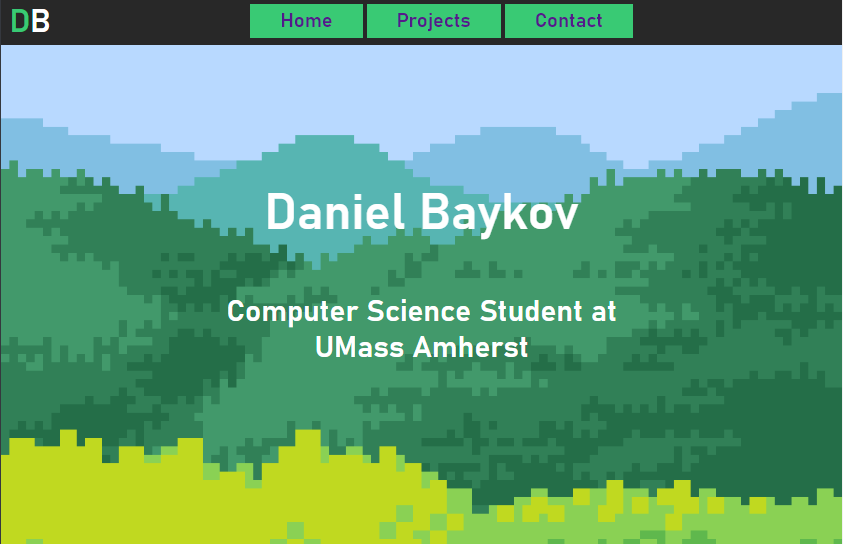
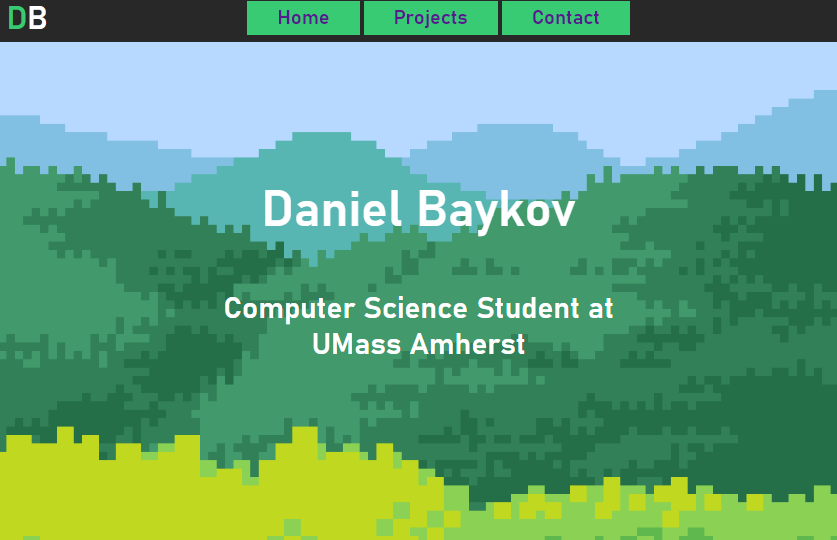
Added css and project

diff --git a/index.html b/index.html
@@ -1,55 +1,65 @@
 <!doctype html>
 <html lang="en">
-	<head>
-		<meta charset="utf-8">
-		<title>Daniel Baykov</title>
-		<link rel="stylesheet" href="stylesheet.css" type="text/css">
-		<link rel="shortcut icon" type="image/png" href="photos/favicon.PNG">
-	</head>
+<head>
+	<meta charset="utf-8">
+	<title>Daniel Baykov</title>
+	<link rel="stylesheet" href="stylesheet.css" type="text/css">
+	<link rel="shortcut icon" type="image/png" href="photos/favicon.PNG">
+</head>
+<header>
+	<em><h1>D<span>B</span></h1></em>
+</header>
+<body>
+<div class = "image-container">
+	<div class = "inner-container">
+		<h3>Daniel Baykov</h3>
+		<h4>Computer Science Student at UMass Amherst</h4>
+	</div>
+
+</div>
+<div>
 	<header>
-		<h1>D<span>B</span></h1>
-		<nav>
-			<ul class = "navbuttons">
-				<li><a href="#">Home</a></li>
-				<li><a href="#">Projects</a></li>
-				<li><a href="#">Contact</a></li>
-			</ul>
-		</nav>
+		<em><h1>About <span>Me</span></h1></em>
 	</header>
-	<body>
-		<div class = "image-container">
-			<div class = "inner-container">
-				<h3>Daniel Baykov</h3>
-				<h4>Computer test Science Student at UMass Amherst</h4>
-			</div>
-			
-		</div>
-		<div>
-			<header>
-				<h1>About <span>Me</span></h1>
-			</header>
-			<p class = "about-text">Hi! I'm Daniel, welcome to my website! I'm a sophomore computer science student at the University of Massachusetts Amherst. I'm passionate about all things tech related and looking forward to the Fall 2022 semester. Outside of school, my interest include: playing tennis, cryptocurrency, and running my landscaping business.</p>
-		</div>
-		<header>
-			<h1><span>Projects</span></h1>
-		</header>
-		<p class = "about-text">Here are some project I've completed in my spare time. Source code can be found on GitHub.</p>
-		<div class = "card">
-			<section class = "cardtitle">
-				<h2>UMass Dining Menu Web Scraper</h2>
-				<h5 class = "card-description">A website scraper building with Python and beautifulsoup4. Collects daily dining hall menus from umassdining.com.</h5>
-			</section>
-			<section>
-				<img src = "photos/project1preview.PNG" class = "scraper-image">
-			</section>
-			<div class = "card">
-			<section class = "cardtitle">
-				<h2>Personal Website 1.0</h2>
-				<h5 class = "card-description">My website building using HTML and CSS.</h5>
-			</section>
-			<section>
-				<img src = "photos/websitethumbnail.PNG" class = "website-preview-image">
-			</section>
-		</div>
-	</body>
+	<p class = "about-text">
+		Hi! I'm Daniel, welcome to my website! I'm a sophomore computer science student at The University of Massachusetts Amherst. I'm passionate about all things tech related and looking forward to the Spring 2023 semester. Outside of school, my interests include: playing tennis, cryptocurrency, and running my landscaping business.
+	</p>
+</div>
+<div>
+	<header>
+		<em><h1>Proj<span>ects</span></h1></em>
+	</header>
+	<p class = "about-text">Here are some project I've completed in my spare time. Source code can be found on GitHub.</p>
+</div>
+<div class = "card">
+	<section class = "cardtitle">
+		<h2>Spotify Music Mixer</h2>
+		<h5 class = "card-description">This project is a site where two users can create a shared genre-based Spotify playlist based on their most common genres. The playlist consists of a genre-appropriate mix of the users current top 50 songs.
+		</h5>
+	</section>
+	<section>
+		<img src = "photos/musicmixerphoto.png" class = "scraper-image">
+	</section>
+</div>
+<div class = "card">
+	<section class = "cardtitle">
+		<h2>ETH/USDT trading bot & back-tester</h2>
+		<h5 class = "card-description">This project is a cryptocurrency trading bot which trades the ETH/USDT pair along with a back-testing program that shows trading results for past market data.
+		</h5>
+	</section>
+	<section>
+		<img src = "photos/backtester.png" class = "backtester-image">
+	</section>
+</div>
+<div class = "card">
+	<section class = "cardtitle">
+		<h2>Personal Website 1.0</h2>
+		<h5 class = "card-description">My website building using HTML and CSS.</h5>
+	</section>
+	<section>
+		<img src = "photos/websitethumbnail.PNG" class = "website-preview-image">
+	</section>
+</div>
+</div>
+</body>
 </html>

diff --git a/stylesheet.css b/stylesheet.css
@@ -1,53 +1,44 @@
 body,html{
   margin:  0;
   padding: 0;
+  background-color: #4b5762
 }
 
 header{
   height: 45px;
-  background-color: #282828;
+  background-color: #313131;
 }
 
 h1{
   position:  absolute;
-  padding: auto;
   float: left;
   margin-left: 1%;
-  margin-top: 4px;
-  font-family: 'Bahnschrift SemiBold';
-  color: #39ca74;
+  margin-top: 0px;
+  font-family: 'Geneva', sans-serif;
+  color: #5b7385;
 }
 
 h2{
   text-align: center;
   margin-top: 20px;
-  font-family: 'Bahnschrift SemiBold';
+  font-family: 'Geneva', sans-serif;
   color: white;
 }
 
 h3{
   text-align: center;
-  font-family: 'Bahnschrift SemiBold';
+  font-family: 'Geneva', sans-serif;
   font-size: 50px;
 }
 
 h4{
-  font-family: 'Bahnschrift SemiBold';
+  font-family: 'Geneva', sans-serif;
   color: white;
   font-size: 30px;
 }
 
 span{
   color: #ffffff;
-}
-
-ul{
-  margin-top: 0px;
-  text-align: center;
-}
-
-.navbuttons{
-  padding-top: 3.7px;
 }
 
 li{
@@ -57,21 +48,8 @@ li{
   background-color: #39ca74;;
 }
 
-a{
-  text-align: center;
-  color: $ffffff;
-  text-decoration: none;
-  font-family: 'Bahnschrift SemiBold';
-  font-size: 20px;
-
-}
-
-a:hover{
-  color: #f0c330;
-}
-
 .card{
-  background-color: #282828;
+  background-color: #313131;
   padding-top: 20px;
   padding-bottom: 20px;
   margin-top: 20px;
@@ -91,7 +69,7 @@ a:hover{
 }
 
 .card-description{
-  font-family: 'Bahnschrift SemiBold';
+  font-family: 'Geneva', sans-serif;
   font-size: 16px;
   padding-right: 8%;
   padding-left: 8%;
@@ -99,6 +77,15 @@ a:hover{
 
 .scraper-image{
   height: 300px;
+}
+
+.website-image{
+  height: 100px;
+}
+
+.backtester-image{
+  margin-top: 50px;
+  height: 200px;
 }
 
 .website-preview-image{
@@ -112,7 +99,7 @@ a:hover{
 }
 
 .image-container{
-  background-image: url("photos/websitebackground.png");
+  background-color: #5b7385;
   height: 250px;
   background-position: center;
   background-size: cover;
@@ -131,7 +118,8 @@ a:hover{
 .about-text{
   padding-right: 20%;
   padding-left: 20%;
-  font-family: 'Bahnschrift SemiBold';
+  font-family: 'Geneva', sans-serif;
   font-size: 18px;
+  color: white;
 }
 
